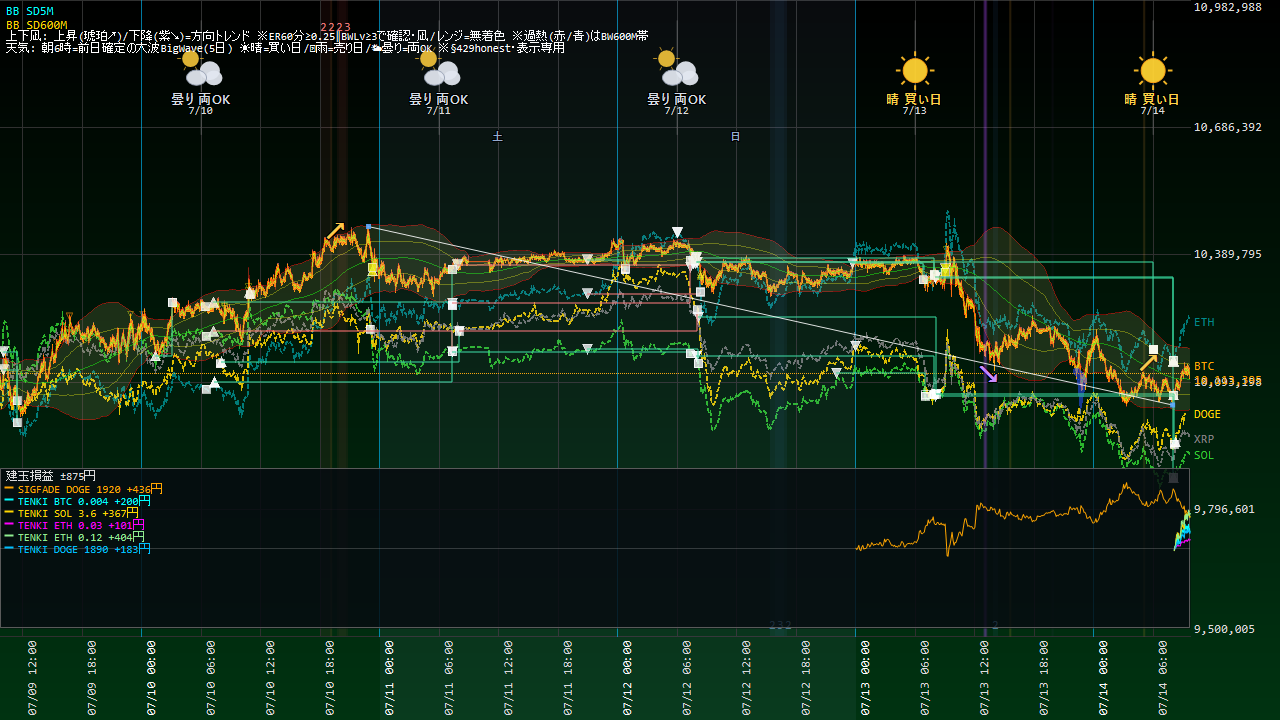
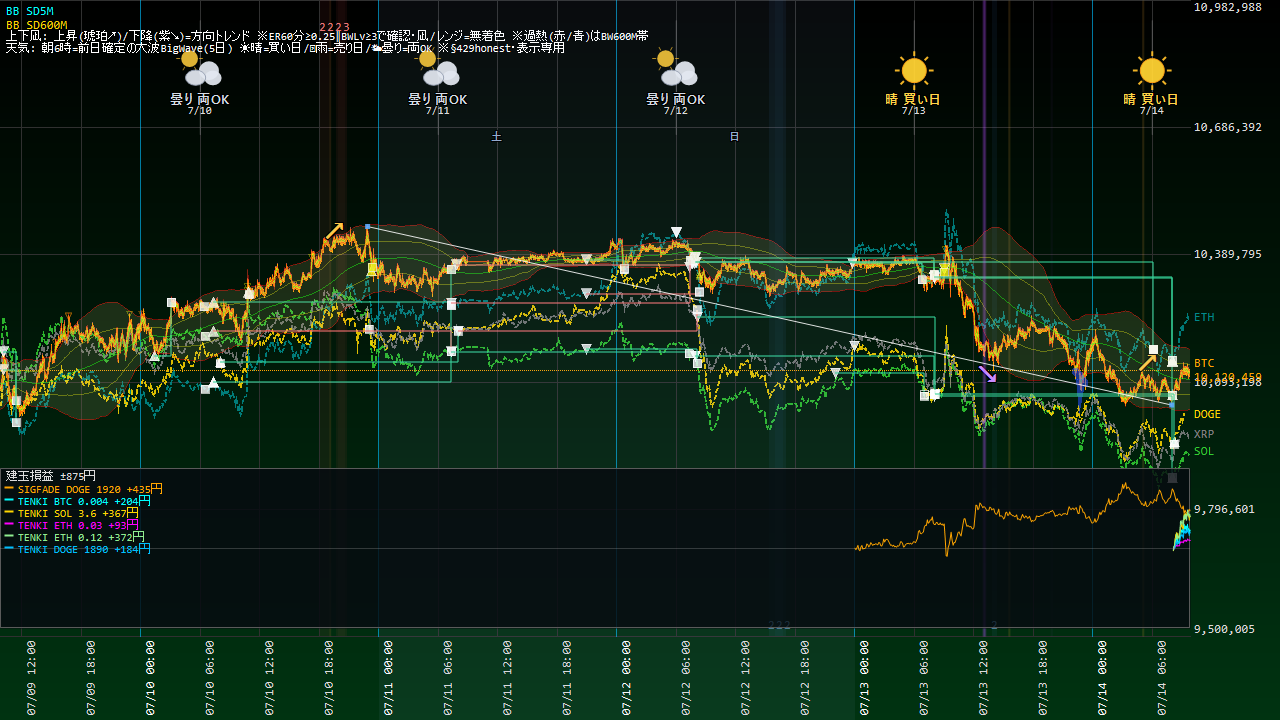
Coin100S 運用状況更新 07-14 09:53

diff --git a/coin100s-795hc4jfv8/status.html b/coin100s-795hc4jfv8/status.html
@@ -14,23 +14,23 @@ a{color:#60a5fa;text-decoration:none} a:hover{text-decoration:underline}
 .meta{color:#94a3b8;font-size:13px}</style>
 <script>setTimeout(function(){location.replace(location.pathname+"?t="+Date.now());},300000);</script></head><body>
 <h1>Coin100S 運用状況</h1>
-<p class="meta">スナップショット: 2026-07-14 09:46:47 / ページ生成: 2026-07-14 09:47:39(自動リロード・最新化) / <a href="index.html">目次へ</a></p>
+<p class="meta">スナップショット: 2026-07-14 09:52:46 / ページ生成: 2026-07-14 09:53:44(自動リロード・最新化) / <a href="index.html">目次へ</a></p>
 <div class="cards">
 <div class="card">建玉数<div class="v">6</div></div>
 <div class="card">本日損益<div class="v pos">+5,341円</div></div>
-<div class="card">評価損益<div class="v pos">+1,689円</div></div>
+<div class="card">評価損益<div class="v pos">+1,768円</div></div>
 </div>
 <h2>資産推移(直近30日)</h2>
-<img src="status_equity.png?t=0947" alt="equity">
+<img src="status_equity.png?t=0953" alt="equity">
 <h2>取引チャート(直近24h)</h2>
-<img src="status_chart.png?t=0947" alt="chart">
+<img src="status_chart.png?t=0953" alt="chart">
 <h2>建玉一覧</h2>
-<table><tr><th>銘柄</th><th>側</th><th>数量</th><th>建値</th><th>含損益</th><th>レッグ</th></tr><tr><td>BTC_JPY</td><td>BUY</td><td>0.004</td><td>@10,063,547</td><td>+200円</td><td>TENKI5D_REV_BTC</td></tr><tr><td>DOGE_JPY</td><td>BUY</td><td>1890</td><td>@12</td><td>+153円</td><td>TENKI5D_REV_DOGE</td></tr><tr><td>DOGE_JPY</td><td>SELL</td><td>1920</td><td>@12</td><td>+466円</td><td>SIGFADE_DOGE</td></tr><tr><td>ETH_JPY</td><td>BUY</td><td>0.12</td><td>@285,611</td><td>+379円</td><td>TENKI5D_REV_ETH</td></tr><tr><td>ETH_JPY</td><td>BUY</td><td>0.03</td><td>@285,605</td><td>+95円</td><td>TENKI5D_REV_ETH</td></tr><tr><td>SOL_JPY</td><td>BUY</td><td>3.6</td><td>@12,083</td><td>+385円</td><td>TENKI5D_REV_SOL</td></tr></table>
+<table><tr><th>銘柄</th><th>側</th><th>数量</th><th>建値</th><th>含損益</th><th>レッグ</th></tr><tr><td>BTC_JPY</td><td>BUY</td><td>0.004</td><td>@10,063,547</td><td>+213円</td><td>TENKI5D_REV_BTC</td></tr><tr><td>DOGE_JPY</td><td>BUY</td><td>1890</td><td>@12</td><td>+192円</td><td>TENKI5D_REV_DOGE</td></tr><tr><td>DOGE_JPY</td><td>SELL</td><td>1920</td><td>@12</td><td>+426円</td><td>SIGFADE_DOGE</td></tr><tr><td>ETH_JPY</td><td>BUY</td><td>0.12</td><td>@285,611</td><td>+428円</td><td>TENKI5D_REV_ETH</td></tr><tr><td>ETH_JPY</td><td>BUY</td><td>0.03</td><td>@285,605</td><td>+107円</td><td>TENKI5D_REV_ETH</td></tr><tr><td>SOL_JPY</td><td>BUY</td><td>3.6</td><td>@12,083</td><td>+385円</td><td>TENKI5D_REV_SOL</td></tr></table>
 <h2>実現決済履歴(直近15件・OrderId単位)</h2>
 <table><tr><th>決済時刻</th><th>レッグ</th><th>銘柄</th><th>実現損益</th></tr><tr><td>07-14 08:15</td><td>TENKI5D_REV_DOGE</td><td>DOGE</td><td class="pos">+267円</td></tr><tr><td>07-14 08:06</td><td>TENKI5D_REV_SOL</td><td>SOL</td><td class="pos">+1,011円</td></tr><tr><td>07-14 08:06</td><td>TENKI5D_REV_BTC</td><td>BTC</td><td class="pos">+819円</td></tr><tr><td>07-14 08:06</td><td>TENKI5D_REV_ETH</td><td>ETH</td><td class="pos">+826円</td></tr><tr><td>07-14 06:08</td><td>RELVALP_SELL</td><td>ETH</td><td class="pos">+89円</td></tr><tr><td>07-14 06:08</td><td>RELVALP_SELL</td><td>ETH</td><td class="pos">+357円</td></tr><tr><td>07-14 06:08</td><td>RELVALP_SELL</td><td>ETH</td><td class="pos">+314円</td></tr><tr><td>07-14 06:08</td><td>RELVALP_SELL</td><td>ETH</td><td class="pos">+328円</td></tr><tr><td>07-14 06:08</td><td>RELVALP_SELL</td><td>ETH</td><td class="pos">+331円</td></tr><tr><td>07-14 06:08</td><td>RELVALP_SELL</td><td>ETH</td><td class="pos">+337円</td></tr><tr><td>07-14 06:08</td><td>RELVALP_SELL</td><td>ETH</td><td class="pos">+329円</td></tr><tr><td>07-14 06:08</td><td>RELVALP_SELL</td><td>ETH</td><td class="pos">+333円</td></tr><tr><td>07-13 09:06</td><td>BW10M3_5M</td><td>BTC</td><td class="pos">+17円</td></tr><tr><td>07-13 08:12</td><td>TENKI5D_REV_DOGE</td><td>DOGE</td><td class="pos">+408円</td></tr><tr><td>07-13 08:03</td><td>TENKI5D_REV_SOL</td><td>SOL</td><td class="pos">+15円</td></tr></table>
 <h2>本取引日の実取引(6:00起点)</h2>
 <table><tr><th>時刻</th><th>種別</th><th>側</th><th>銘柄</th><th>数量</th><th>指値</th></tr><tr><td>06:08:03</td><td>決済</td><td>BUY</td><td>ETH_JPY</td><td>0.05</td><td>287,361</td></tr><tr><td>06:08:04</td><td>決済</td><td>BUY</td><td>ETH_JPY</td><td>0.05</td><td>287,361</td></tr><tr><td>06:08:05</td><td>決済</td><td>BUY</td><td>ETH_JPY</td><td>0.05</td><td>287,365</td></tr><tr><td>06:08:07</td><td>決済</td><td>BUY</td><td>ETH_JPY</td><td>0.05</td><td>287,366</td></tr><tr><td>06:08:09</td><td>決済</td><td>BUY</td><td>ETH_JPY</td><td>0.05</td><td>287,370</td></tr><tr><td>06:08:11</td><td>決済</td><td>BUY</td><td>ETH_JPY</td><td>0.05</td><td>287,370</td></tr><tr><td>06:08:12</td><td>決済</td><td>BUY</td><td>ETH_JPY</td><td>0.05</td><td>287,372</td></tr><tr><td>06:08:13</td><td>決済</td><td>BUY</td><td>ETH_JPY</td><td>0.05</td><td>287,372</td></tr><tr><td>06:08:14</td><td>決済</td><td>BUY</td><td>ETH_JPY</td><td>0.04</td><td>287,374</td></tr><tr><td>06:08:16</td><td>決済</td><td>BUY</td><td>ETH_JPY</td><td>0.01</td><td>287,376</td></tr><tr><td>06:08:19</td><td>決済</td><td>BUY</td><td>ETH_JPY</td><td>0.05</td><td>287,378</td></tr><tr><td>06:08:20</td><td>決済</td><td>BUY</td><td>ETH_JPY</td><td>0.05</td><td>287,380</td></tr><tr><td>06:08:21</td><td>決済</td><td>BUY</td><td>ETH_JPY</td><td>0.04</td><td>287,380</td></tr><tr><td>06:08:22</td><td>決済</td><td>BUY</td><td>ETH_JPY</td><td>0.01</td><td>287,379</td></tr><tr><td>06:08:23</td><td>決済</td><td>BUY</td><td>ETH_JPY</td><td>0.01</td><td>287,379</td></tr><tr><td>08:06:03</td><td>決済</td><td>BUY</td><td>ETH_JPY</td><td>0.13</td><td>286,547</td></tr><tr><td>08:06:03</td><td>決済</td><td>BUY</td><td>BTC_JPY</td><td>0.003</td><td>10,092,690</td></tr><tr><td>08:06:03</td><td>決済</td><td>BUY</td><td>SOL_JPY</td><td>3</td><td>12,121</td></tr><tr><td>08:07:03</td><td>新規</td><td>BUY</td><td>BTC_JPY</td><td>0.004</td><td>10,070,303</td></tr><tr><td>08:07:03</td><td>新規</td><td>BUY</td><td>ETH_JPY</td><td>0.15</td><td>285,781</td></tr><tr><td>08:07:03</td><td>新規</td><td>BUY</td><td>SOL_JPY</td><td>3.6</td><td>12,091</td></tr><tr><td>08:15:03</td><td>決済</td><td>BUY</td><td>DOGE_JPY</td><td>1590</td><td>12</td></tr><tr><td>08:16:03</td><td>新規</td><td>BUY</td><td>DOGE_JPY</td><td>1890</td><td>12</td></tr></table>
 <h2>現在レジーム(3軸・§570c)</h2>
-<ul><li>アルト対BTC 5日: <b>-134bps</b>(アルト劣後=RELVAL順風)</li><li>BTC ER240m: <b>0.032</b>(閾値0.25→レンジ(fade順風/BWTRD逆風))</li><li>BTC実現ボラ240m: <b>4.34</b> bps/分</li></ul>
+<ul><li>アルト対BTC 5日: <b>-134bps</b>(アルト劣後=RELVAL順風)</li><li>BTC ER240m: <b>0.037</b>(閾値0.25→レンジ(fade順風/BWTRD逆風))</li><li>BTC実現ボラ240m: <b>4.33</b> bps/分</li></ul>
 <hr><p class="meta">自動生成: tools/web_publish.py(§580・読み取り専用)。売買判断はアプリ本体。</p>
 </body></html>

diff --git a/coin100s-795hc4jfv8/index.html b/coin100s-795hc4jfv8/index.html
@@ -14,16 +14,16 @@ a{color:#60a5fa;text-decoration:none} a:hover{text-decoration:underline}
 .meta{color:#94a3b8;font-size:13px}</style>
 <script>setTimeout(function(){location.replace(location.pathname+"?t="+Date.now());},300000);</script></head><body>
 <h1>Coin100S ダッシュボード</h1>
-<p class="meta">スナップショット: 2026-07-14 09:47:17(自動リロード・最新化)</p>
+<p class="meta">スナップショット: 2026-07-14 09:53:16(自動リロード・最新化)</p>
 <div class="cards">
 <div class="card">建玉数<div class="v">6</div></div>
 <div class="card">本日損益<div class="v pos">+5,341円</div></div>
-<div class="card">評価損益<div class="v pos">+1,690円</div></div>
+<div class="card">評価損益<div class="v pos">+1,748円</div></div>
 </div>
 <h2>現在の建玉</h2>
-<table><tr><th>銘柄</th><th>側</th><th>数量</th><th>建値</th><th>含損益</th><th>レッグ</th></tr><tr><td>BTC_JPY</td><td>BUY</td><td>0.004</td><td>@10,063,547</td><td>+217円</td><td>TENKI5D_REV_BTC</td></tr><tr><td>DOGE_JPY</td><td>BUY</td><td>1890</td><td>@12</td><td>+153円</td><td>TENKI5D_REV_DOGE</td></tr><tr><td>DOGE_JPY</td><td>SELL</td><td>1920</td><td>@12</td><td>+466円</td><td>SIGFADE_DOGE</td></tr><tr><td>ETH_JPY</td><td>BUY</td><td>0.12</td><td>@285,611</td><td>+379円</td><td>TENKI5D_REV_ETH</td></tr><tr><td>ETH_JPY</td><td>BUY</td><td>0.03</td><td>@285,605</td><td>+95円</td><td>TENKI5D_REV_ETH</td></tr><tr><td>SOL_JPY</td><td>BUY</td><td>3.6</td><td>@12,083</td><td>+385円</td><td>TENKI5D_REV_SOL</td></tr></table>
+<table><tr><th>銘柄</th><th>側</th><th>数量</th><th>建値</th><th>含損益</th><th>レッグ</th></tr><tr><td>BTC_JPY</td><td>BUY</td><td>0.004</td><td>@10,063,547</td><td>+210円</td><td>TENKI5D_REV_BTC</td></tr><tr><td>DOGE_JPY</td><td>BUY</td><td>1890</td><td>@12</td><td>+192円</td><td>TENKI5D_REV_DOGE</td></tr><tr><td>DOGE_JPY</td><td>SELL</td><td>1920</td><td>@12</td><td>+426円</td><td>SIGFADE_DOGE</td></tr><tr><td>ETH_JPY</td><td>BUY</td><td>0.12</td><td>@285,611</td><td>+428円</td><td>TENKI5D_REV_ETH</td></tr><tr><td>ETH_JPY</td><td>BUY</td><td>0.03</td><td>@285,605</td><td>+107円</td><td>TENKI5D_REV_ETH</td></tr><tr><td>SOL_JPY</td><td>BUY</td><td>3.6</td><td>@12,083</td><td>+385円</td><td>TENKI5D_REV_SOL</td></tr></table>
 <p><a href="status.html"><b>▶ 運用状況の詳細(チャート・本日の取引・レジーム)</b></a></p>
 <h2>日報一覧</h2>
 <table><tr><th>取引日</th><th>実現損益</th><th>総括</th></tr><tr><td><a href='reports/20260713_Coin100S日報.html'>2026-07-13</a></td><td class="pos">+0円</td><td class='meta'>実取引: 新規5件/決済8件、実現損益 +0円。シグナル却下1件（最多: BW10M3_5M／トレンド方向ゲート(N分傾き上と不一致=逆張り方向のfade禁止)）。警告/孤児/エラーなし＝健全。</td></tr><tr><td><a href='reports/20260712_Coin100S日報.html'>2026-07-12</a></td><td class="pos">+0円</td><td class='meta'>実取引: 新規14件/決済6件、実現損益 +0円。シグナル却下5件（最多: BW10M3_5M／トレンド方向ゲート(N分傾き下と不一致=逆張り方向のfade禁止)）。⚠警告/エラー 2件（要確認）。</td></tr><tr><td><a href='reports/20260711_Coin100S日報.html'>2026-07-11</a></td><td class="pos">+0円</td><td class='meta'>実取引: 新規7件/決済6件、実現損益 +0円。⚠警告/エラー 52件（要確認）。</td></tr><tr><td><a href='reports/20260710_Coin100S日報.html'>2026-07-10</a></td><td class="pos">+0円</td><td class='meta'>実取引: 新規7件/決済6件、実現損益 +0円。シグナル却下6件（最多: BW10M3_5M／トレンド方向ゲート(N分傾き上と不一致=逆張り方向のfade禁止)）。警告/孤児/エラーなし＝健全。</td></tr><tr><td><a href='reports/20260709_Coin100S日報.html'>2026-07-09</a></td><td class="pos">+0円</td><td class='meta'>実取引: 新規8件/決済3件、実現損益 +0円。シグナル却下5件（最多: SD120M_5M／トレンド方向ゲート(N分傾き上と不一致=逆張り方向のfade禁止)）。警告/孤児/エラーなし＝健全。</td></tr><tr><td><a href='reports/20260708_Coin100S日報.html'>2026-07-08</a></td><td class="pos">+0円</td><td class='meta'>実取引: 新規2件/決済4件、実現損益 +0円。シグナル却下4件（最多: SD120M_5M／トレンド方向ゲート(N分傾き下と不一致=逆張り方向のfade禁止)）。警告/孤児/エラーなし＝健全。</td></tr><tr><td><a href='reports/20260707_Coin100S日報.html'>2026-07-07</a></td><td class="pos">+0円</td><td class='meta'>実取引: 新規8件/決済6件、実現損益 +0円。シグナル却下4件（最多: SD120M_5M／トレンド方向ゲート(N分傾き上と不一致=逆張り方向のfade禁止)）。⚠警告/エラー 258件（要確認）。</td></tr><tr><td><a href='reports/20260706_Coin100S日報.html'>2026-07-06</a></td><td class="pos">+0円</td><td class='meta'>実取引: 新規9件/決済6件、実現損益 +0円。シグナル却下9件（最多: SD120M_5M／トレンド方向ゲート(N分傾き上と不一致=逆張り方向のfade禁止)）。⚠警告/エラー 150件（要確認）。</td></tr><tr><td><a href='reports/20260705_Coin100S日報.html'>2026-07-05</a></td><td class="pos">+0円</td><td class='meta'>実取引: 新規8件/決済3件、実現損益 +0円。⚠警告/エラー 2件（要確認）。</td></tr><tr><td><a href='reports/20260704_Coin100S日報.html'>2026-07-04</a></td><td class="pos">+0円</td><td class='meta'>実取引: 新規1件/決済2件、実現損益 +0円。⚠警告/エラー 2件（要確認）。</td></tr><tr><td><a href='reports/20260703_Coin100S日報.html'>2026-07-03</a></td><td class="pos">+0円</td><td class='meta'>実取引: 新規5件/決済4件、実現損益 +0円。⚠警告/エラー 15件（要確認）。</td></tr><tr><td><a href='reports/20260702_Coin100S日報.html'>2026-07-02</a></td><td class="pos">+0円</td><td class='meta'>実取引: 新規7件/決済5件、実現損益 +0円。シグナル却下17件（最多: SD120M_5M／トレンド方向ゲート(N分傾き上と不一致=逆張り方向のfade禁止)）。⚠警告/エラー 26件（要確認）。</td></tr><tr><td><a href='reports/20260701_Coin100S日報.html'>2026-07-01</a></td><td class="pos">+0円</td><td class='meta'>実取引: 新規14件/決済8件、実現損益 +0円。シグナル却下14件（最多: SD120M_5M／ボラ軸ゲート(SDN%&amp;gt;N%=高ボラ/荒れレンジ)）。⚠警告/エラー 2件（要確認）。</td></tr><tr><td><a href='reports/20260630_Coin100S日報.html'>2026-06-30</a></td><td class="pos">+0円</td><td class='meta'>実取引: 新規0件/決済1件、実現損益 +0円。シグナル却下29件（最多: 微5M／当日枠N）。警告/孤児/エラーなし＝健全。</td></tr></table>
-<hr><p class="meta">更新: 2026-07-14 09:47:39 / 自動生成: tools/web_publish.py(§580)</p>
+<hr><p class="meta">更新: 2026-07-14 09:53:44 / 自動生成: tools/web_publish.py(§580)</p>
 </body></html>
